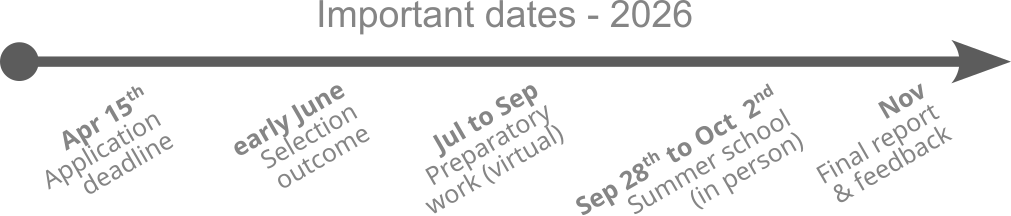
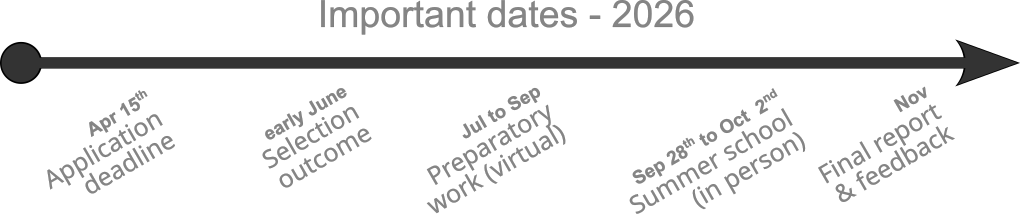
Adding thin border around timeline for better visibility on dark theme

diff --git a/content/authors/admin/_index.md b/content/authors/admin/_index.md
@@ -50,7 +50,7 @@ but starting to use and developing these methods -- and applying them to real-wo
 to tackle challenges in insect ecology and entomology.
 
 <p align="center">
-  <img alt="timeline" src="img/timeline2026.png" width="100%">
+  <img alt="timeline" src="img/timeline2026.svg" width="100%">
 </p>
 
 
